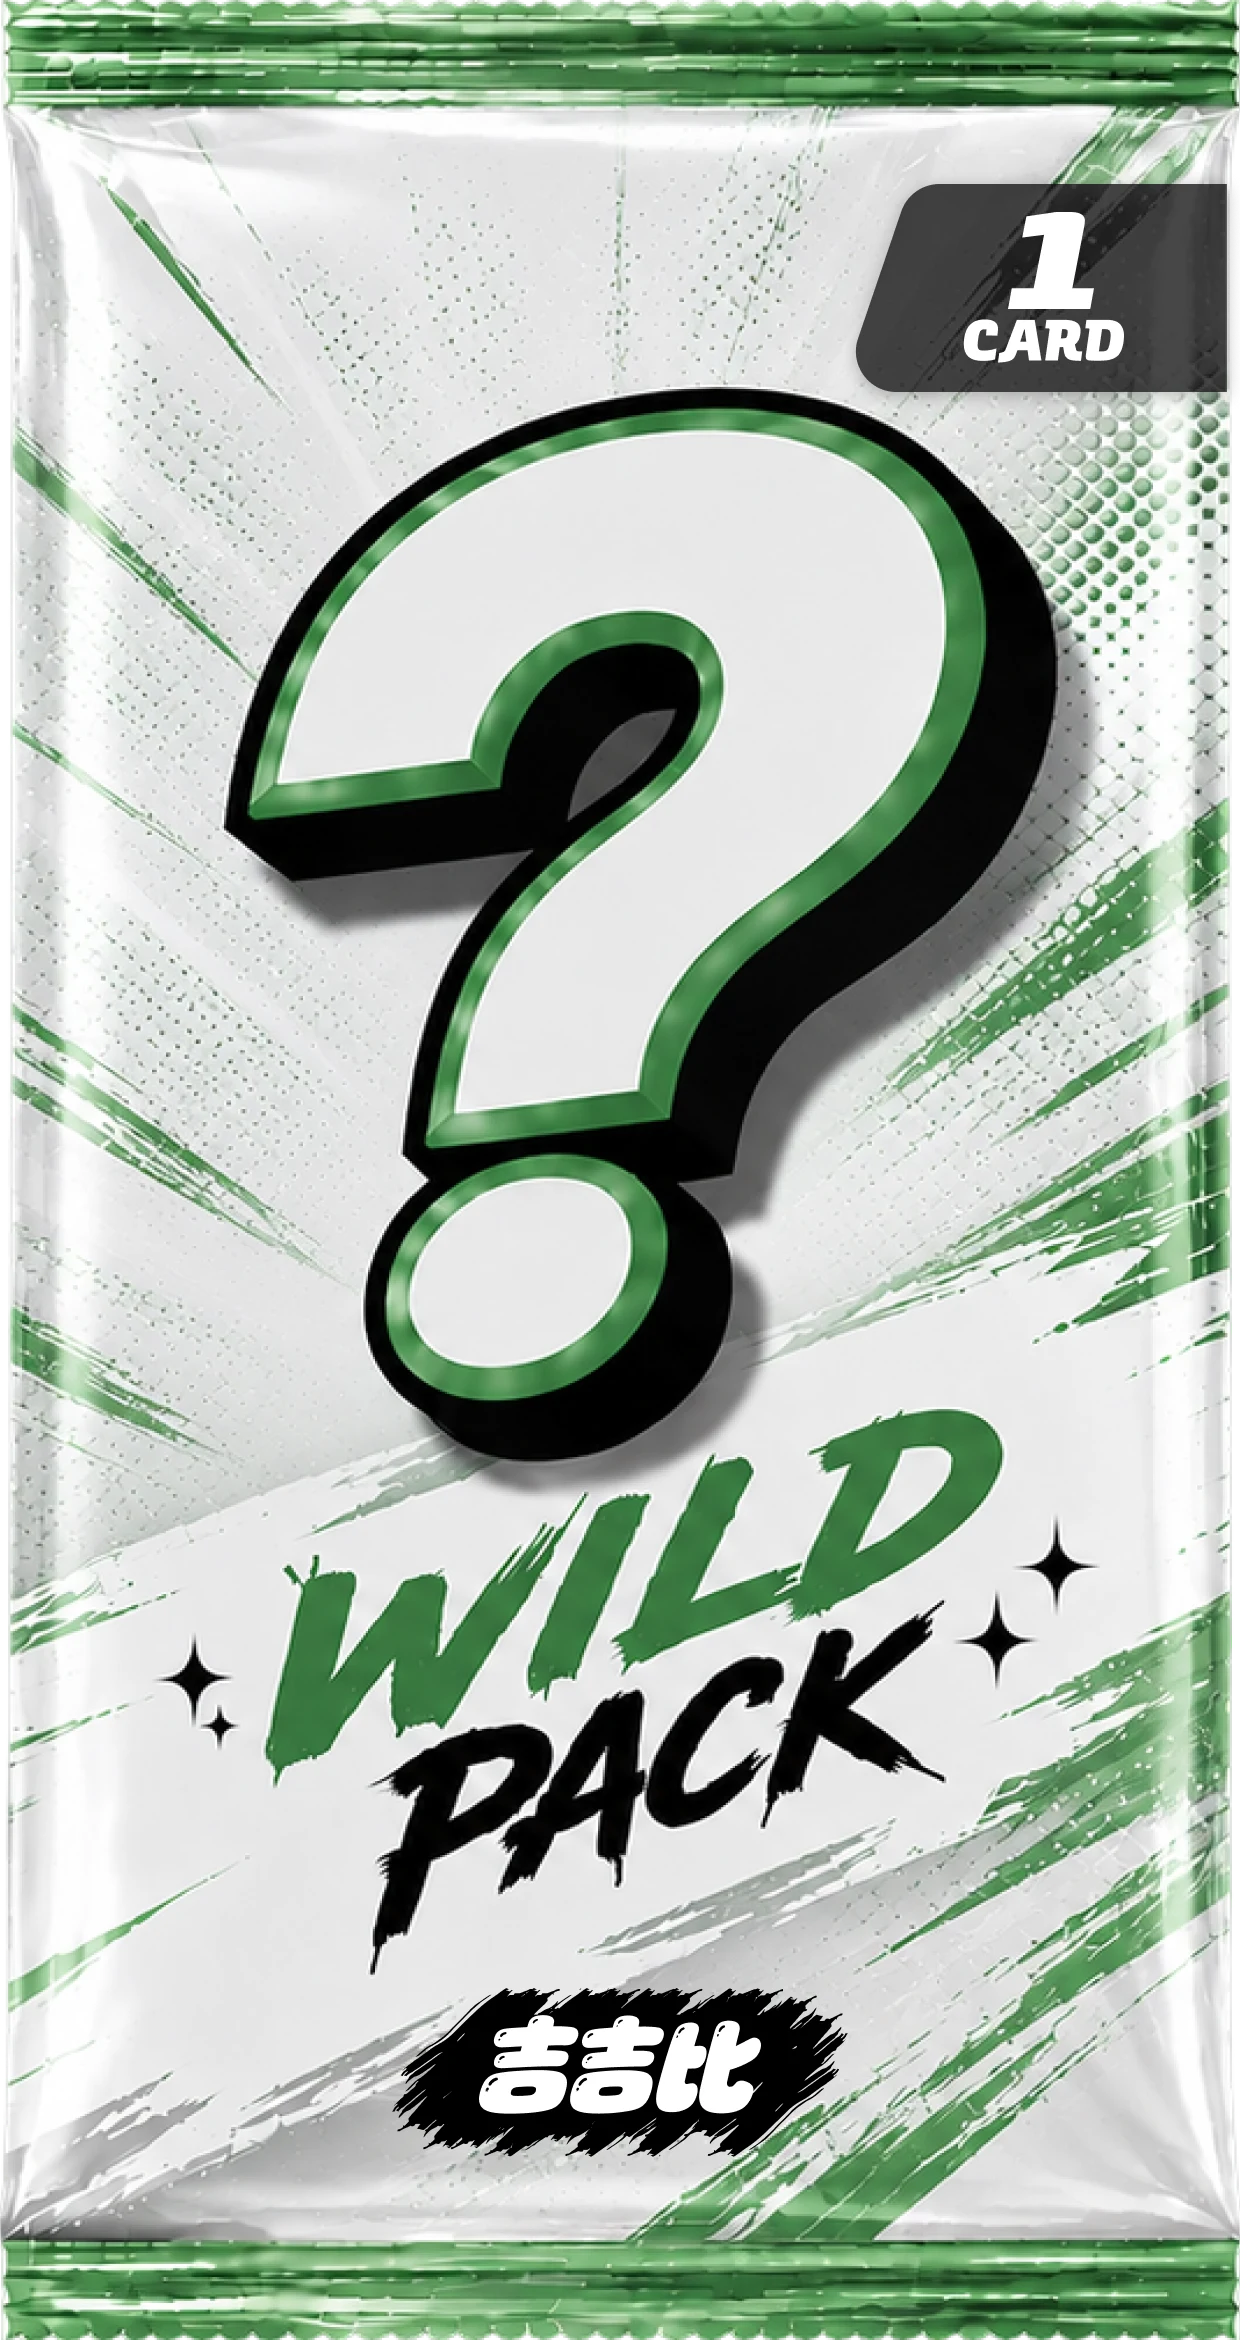
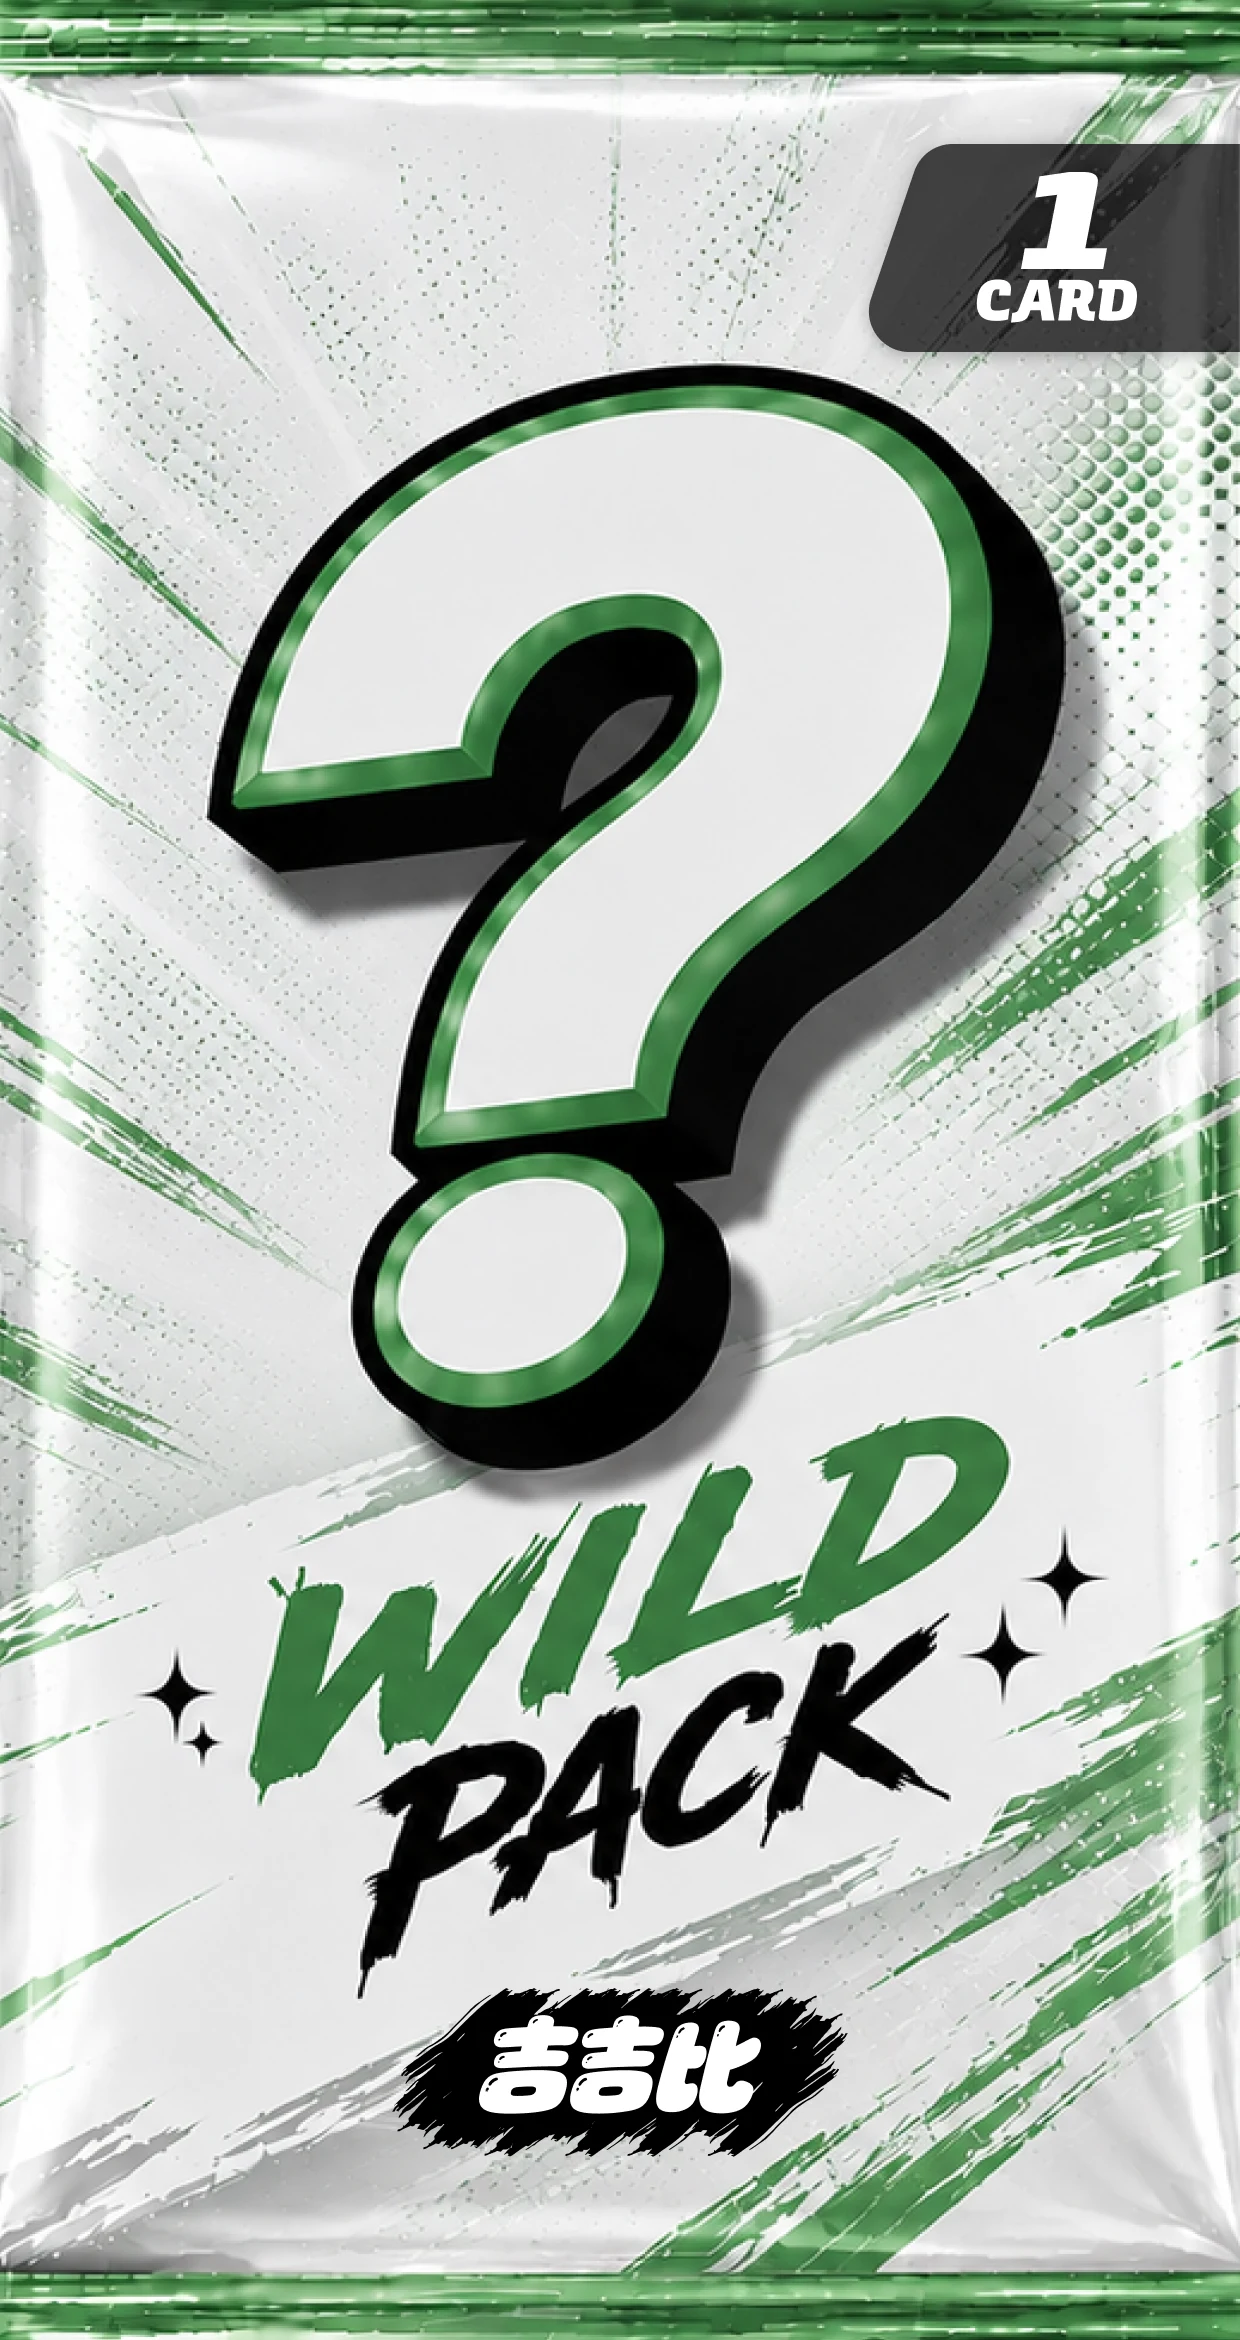
assets(card): 五款內建卡包再換一版，PNG 轉 WebP
檔名不變，程式端零改動。照既有的 convert_frontend_images.ts（q88、保留 alpha）
轉檔：24.4 MB → 3.6 MB。規格與前一版一致：1240 × 2340、RGBA、滿版出血。

diff --git a/DEVLOG.md b/DEVLOG.md
@@ -4,6 +4,17 @@
 
 ---
 
+## v2026.09.01j｜2026-09-01｜五款內建卡包再換一版
+
+老闆重畫了 WILD PACK 五款（紫／綠／藍／紅／金黑，每款正反各一張）。
+檔名與 `PACK_STYLES = ['a'…'e']` 都沒變，程式端零改動。
+
+原檔 PNG 共 24.4 MB，照既有的 `convert_frontend_images.ts`（q88、alphaQuality 100、
+保留 alpha）轉成 WebP → 3.6 MB，省 85%。規格與前一版一致：1240 × 2340、RGBA、滿版出血
+（圓角與上下的鋸齒撕線由輪播自己套，不用畫在圖上）。
+
+---
+
 ## v2026.09.01i｜2026-09-01｜抽卡不再分「單抽／卡包」兩種模式
 
 老闆 2026-09-01：「抽卡分兩種模式好像是多餘的，都是卡包形式來抽卡。只要分這商品
